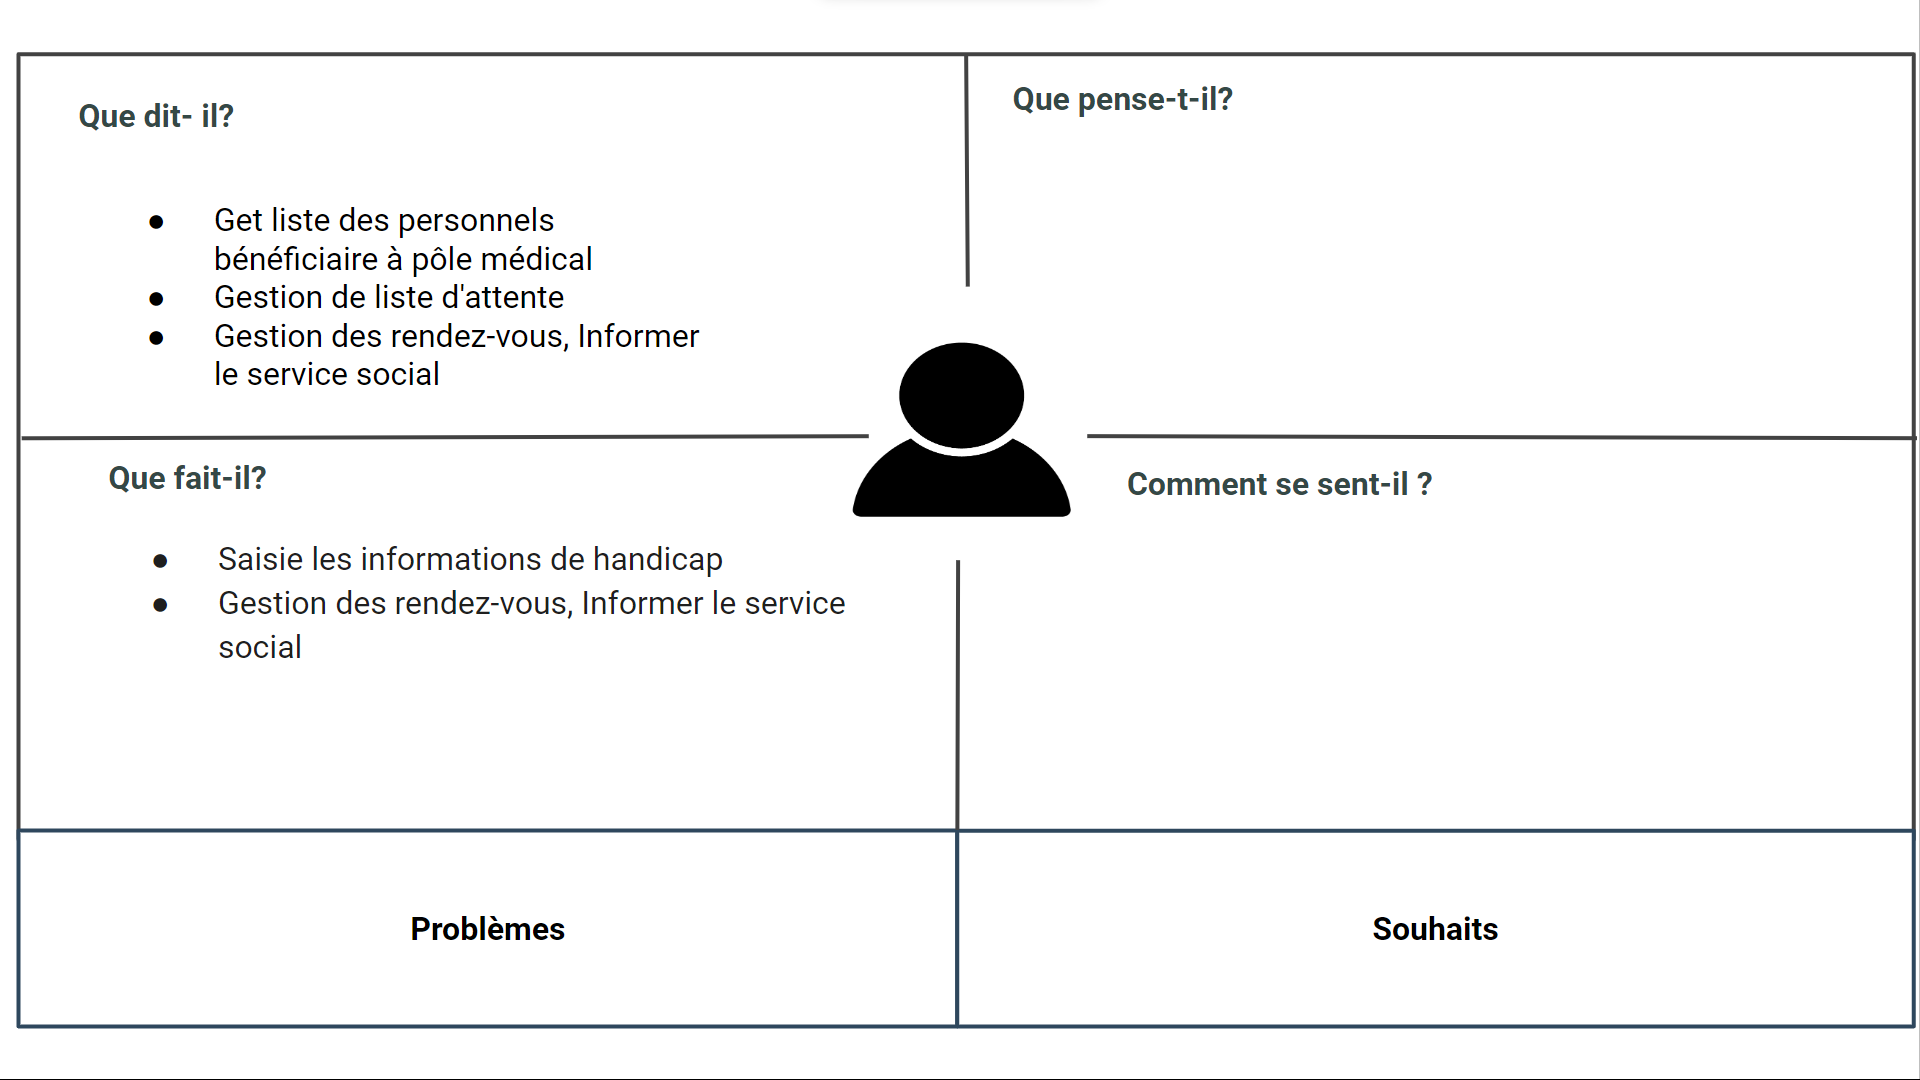
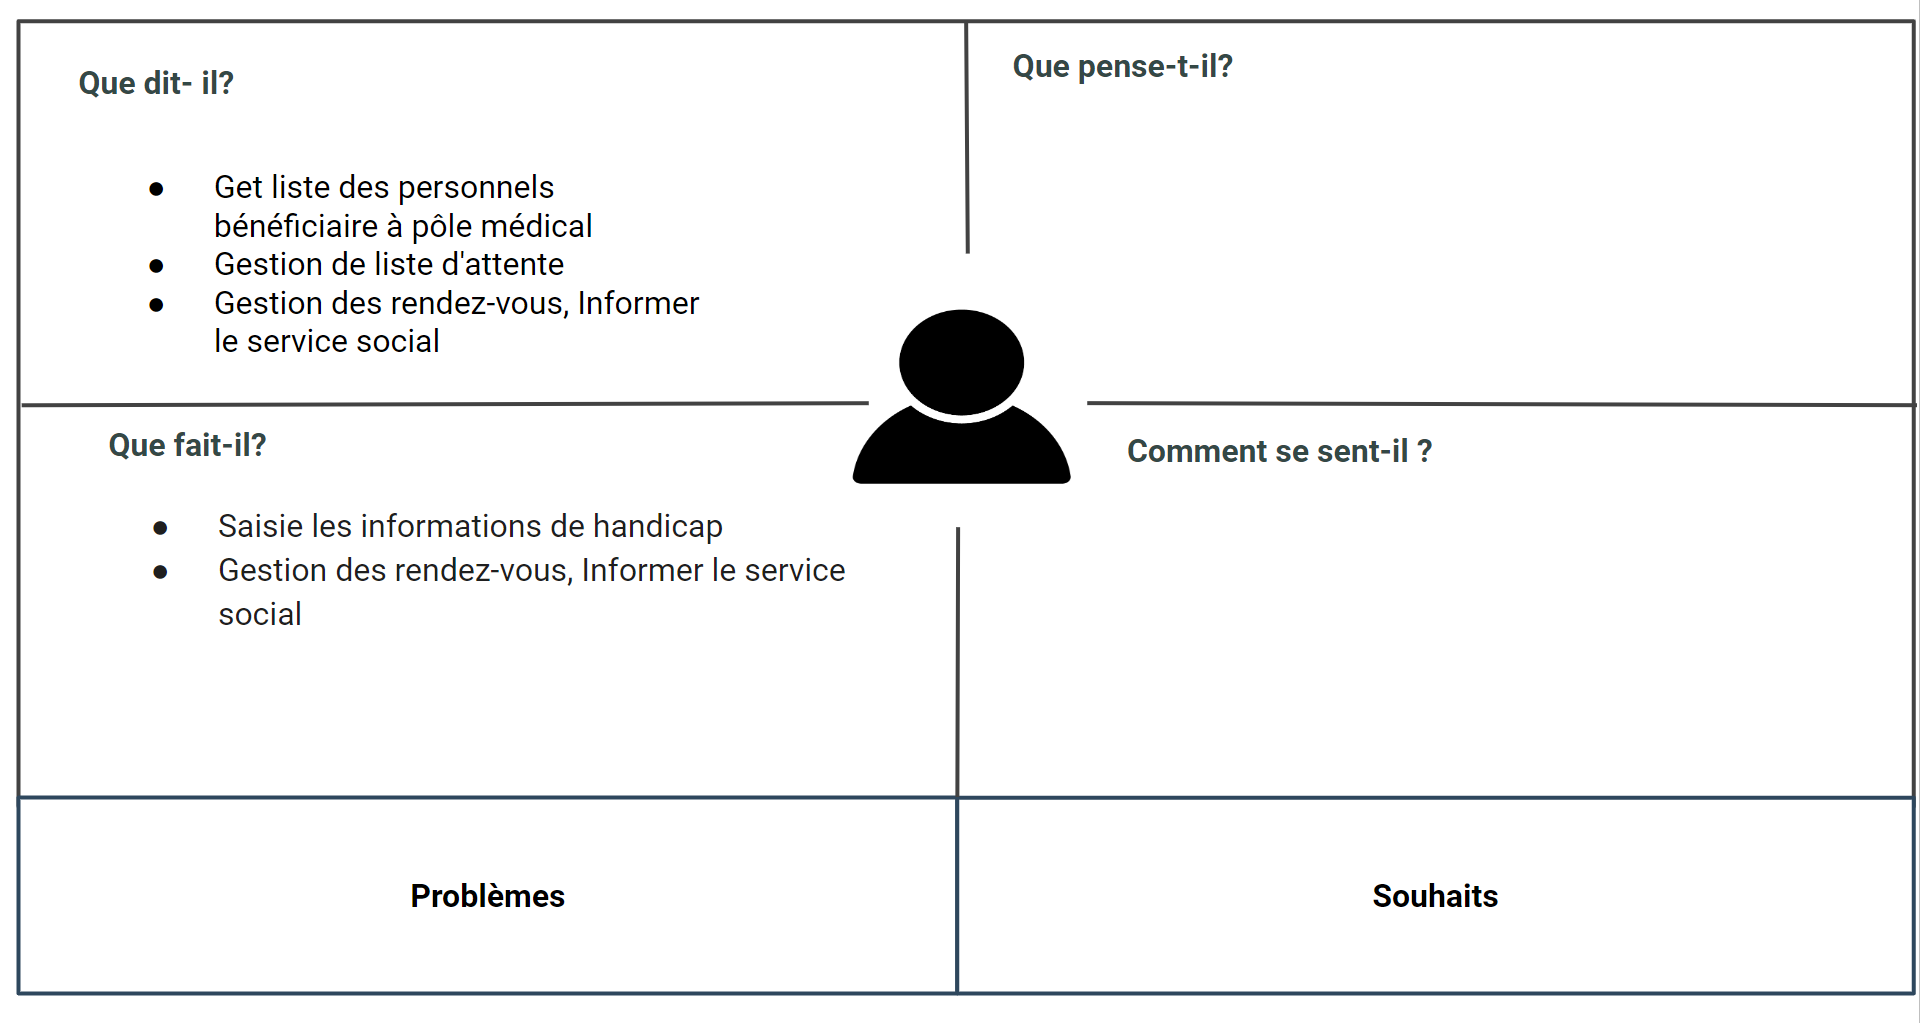
save

diff --git a/docs/empathie-orthophoniste/empathie-orthophoniste.md b/docs/empathie-orthophoniste/empathie-orthophoniste.md
@@ -9,14 +9,16 @@ order: 4
 <!-- new slide -->
 
 ## Carte d'empathie
-![empathie othophoniste](./images/orthophoniste.png){:width='90%' }
+
+![empathie othophoniste](./images/orthophoniste.png){:width='80%' }
 *Figure: Empathie d'othophoniste*
 
-<!-- note  -->
+
+<!-- note -->
+
 Une séance d’empathie a été réalisée avec SAMIA KABBAJ, l’orthophoniste de service de rééducation, le 23 avril 2023.
 
 ## Entretien
-
 
 ### Ce qu'il dit 
 
